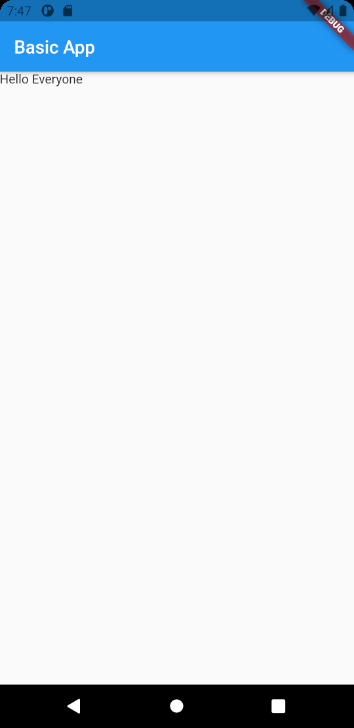
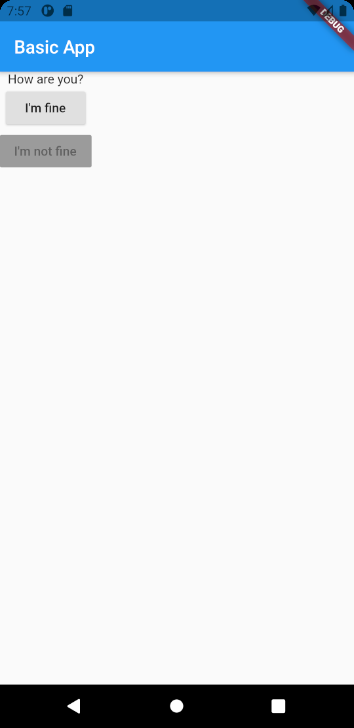
Scaffold with multiple widgets and button basics

Changed region(s): [[0.0, 0.0907, 0.2797, 0.2418], [0.0311, 0.0, 0.0621, 0.0302]]

diff --git a/lib/main.dart b/lib/main.dart
@@ -13,7 +13,14 @@ class MyApp extends StatelessWidget{
         appBar: AppBar(
           title: Text('Basic App'),
         ),
-        body: Text('Hello Everyone'),
+        body: Column(
+          // Column is used to put multiple widget in a screen
+          children: [
+            Text('How are you?'),
+            RaisedButton(child: Text('I\'m fine'), onPressed: ()=>print('He\'s fine'),),
+            RaisedButton(child: Text('I\'m not fine'), )
+          ],
+        ),
       ),
     );
   }

diff --git a/README.md b/README.md
@@ -9,7 +9,14 @@
 ### Scaffold    (provided by material library)
 - This creates a basic white background for the app.
 - `appbar` will create a appbar at the top.
+- Pass widget to `body` to show the content to the main screen.
 
+### Column
+- To pass multiple widgets use `column` which takes a list of widgets.
 
+### RaisedButton
+- To create a button.
+- No required arguments.
+- A function can be passed to `onPressed` to do some action.
 
 ![Output](output.png)
